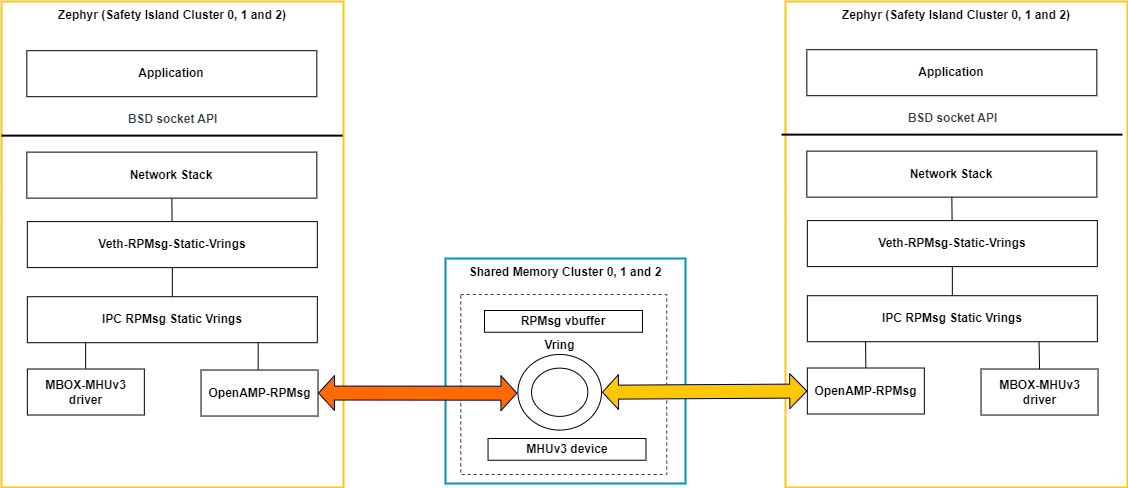
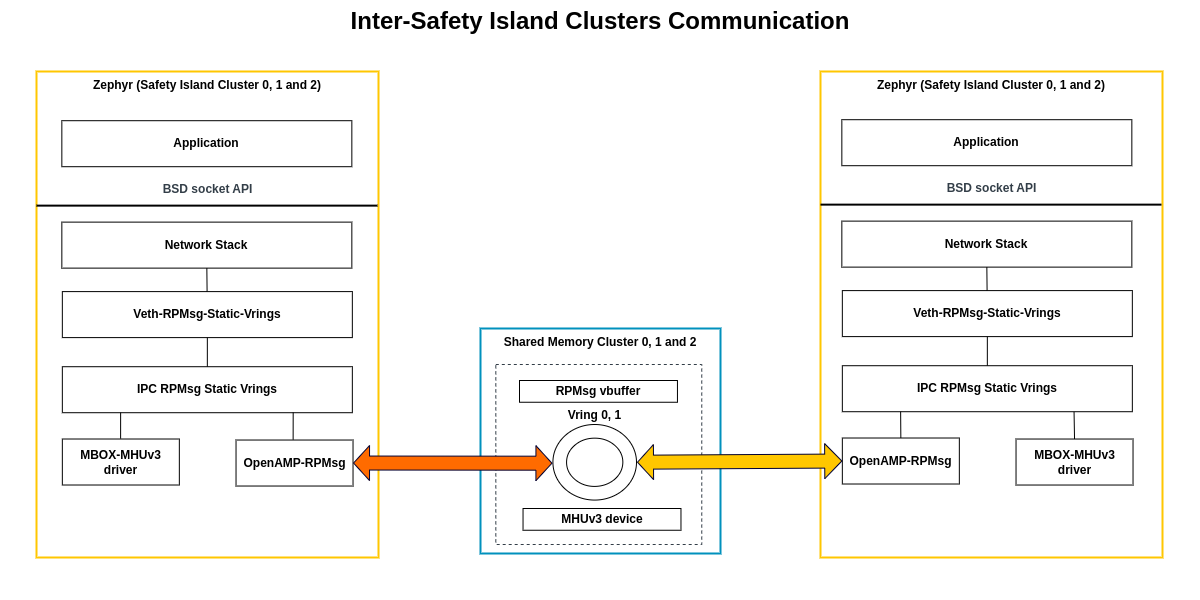
doc: Update HIPC documentation to standardize conventions
This commit updates corrections in the architecture diagrams
and standardizes the conventions.

Changed region(s): [[0.0, 0.0, 1.0, 1.0], [0.0, 0.9836, 0.3103, 1.0]]

diff --git a/documentation/design/hipc.rst b/documentation/design/hipc.rst
@@ -7,7 +7,7 @@
 .. _design_hipc:
 
 ##################################################
-Heterogeneous Inter-processor Communication (HIPC)
+Heterogeneous Inter-Processor Communication (HIPC)
 ##################################################
 
 ************
@@ -16,7 +16,7 @@ Introduction
 
 The Kronos FVP contains Armv9-A (Primary Compute) and Armv8-R64 (Safety Island)
 heterogeneous processing elements which share data via the Message Handling
-Unit (MHUv3) and shared Static Random-Access Memory (SRAM). The MHUv3 is a
+Unit (MHUv3) and shared Static Random Access Memory (SRAM). The MHUv3 is a
 mailbox controller used for signal transmission and the shared memory is used
 for data exchange. Safety Island clusters also share data via the MHUv3 and
 shared SRAM.
@@ -41,64 +41,64 @@ RPMsg Protocol
 ==============
 
 RPMsg (Remote Processor Messaging) is a messaging protocol enabling
-heterogeneous communication, which can be used by Linux as well as real-time
-OSes.
+heterogeneous communication, which can be used by Linux as well as Real Time
+Operating Systems.
 
-In Linux, the RPMsg framework is implemented on top of the virtio-rpmsg
-bus and remoteproc framework. The virtio-rpmsg implementation is generic and
-based on virtio vrings to transmit/receive messages to/from the remote CPU over
+In Linux, the RPMsg framework is implemented on top of the Virtio-RPMsg
+bus and Remoteproc framework. The Virtio-RPMsg implementation is generic and
+based on Virtio Vring to transmit/receive messages to/from the remote CPU over
 shared memory.
 
 On the Safety Island side, Zephyr has imported OpenAMP as an external module.
-The OpenAMP library implements the RPMsg backend based on virtio, which is
-compatible with the upstream Linux remoteproc and RPMsg components. This library
+The OpenAMP library implements the RPMsg backend based on Virtio, which is
+compatible with the upstream Linux Remoteproc and RPMsg components. This library
 can be used with the Zephyr kernel or Zephyr applications to behave as an RPMsg
 backend service for communication with the Primary Compute.
 
 Virtual Network Device over RPMsg
 =================================
 
-RPMsg provides a set of user APIs for RPMsg endpoints to transmit/receive
-messages to/from the endpoints. These APIs can be used for some basic
-inter-processor communication. However, many existing user applications are not
-implemented based on RPMsg APIs. More often, they use BSD sockets for IPC. This
-is because BSD sockets can shield the difference between inter-processor
-communication and intra-processor communication, which makes applications
-generic and portable. In order to meet the needs of such applications, an RPMsg
-based virtual network device is added to the Reference Stack.
+RPMsg offers a range of user APIs for RPMsg endpoints to send and receive messages
+to and from these endpoints. These APIs are suitable for simple inter-processor
+communication. However, many current user applications are not built on RPMsg APIs.
+Instead, they use BSD sockets for IPC. The reason for this is that BSD sockets can
+abstract the difference between inter-processor communication and intra-processor
+communication. This makes it possible for applications to be more versatile and
+portable. In response to the needs of such applications, a virtual network device
+based on RPMsg has been added to the Reference Stack.
 
-On the Safety Island side, it creates a network device over an RPMsg endpoint
-with a specific service name. The RPMsg endpoint announces its existence by
-sending a name service message to the Primary Compute. This message is then
-handled by the RPMsg bus to create an RPMsg endpoint and a corresponding
-network device. After that, the network communication is established based on
-this pair of virtual network devices.
+On the Safety Island side, a network device is created over an RPMsg endpoint
+with a specific service name. The RPMsg endpoint sends a Name Service message
+to the Primary Compute to announce its existence. The message is then processed
+by the RPMsg bus, which creates an RPMsg endpoint and a corresponding network
+device. Once this is done, the virtual network devices establish network
+communication.
 
-On the Primary Compute side, the RPMsg frame needs to be copied to the skb
-buffer used by the network stack. When the traffic exceeds the performance
-limitation, the skb buffer may be dropped during processing for congestion
-control or by the protocol layers. At this time, network statistics will
-increase the dropped packet counter.
+On the Primary Compute side RPMsg frame must be copied to the Socket Buffer (skb)
+utilized by the Network Stack. However, if the traffic exceeds the performance
+limit, the Socket Buffer may get dropped during processing for congestion control
+or by the protocol layers. In such cases, the network statistics will increase
+the dropped packet counter.
 
-As shown in the above diagram each Safety Island cluster has its own shared
-memory and MHUv3 device to communicate with the Primary Compute. The size of
-the shared memory is 16MB and Safety Island clusters 0, 1 and 2 have access to
-it. Each shared memory instance has a resource table (4KB), two vrings
-(1MB each) and message buffer (3MB) that are used to transmit/receive
-information between the Primary Compute and the Safety Island Cluster. On the
-Primary Compute, the Safety Island remoteproc driver and RPMsg-based virtual
-interface driver are added to communicate with the Safety Island.
+In the above diagram, each Safety Island cluster has its own Shared Memory and
+MHUv3 device to communicate with the Primary Compute. The size of the Shared
+Memory is 16MB, and Safety Island Clusters 0, 1, and 2 have access to it. The
+Shared Memory instance has a Resource table (4KB), Vring 0, 1 (1MB each), and
+an RPMsg vbuffer (3MB) used to send and receive information between the Primary
+Compute and the Safety Island cluster.
 
-RPMsg-net driver on the Primary Compute and Veth-RPMsg on the Safety Island
-clusters implement the virtual ethernet device that is base for communication
-between Primary Compute and Safety Island clusters.
+On the Primary Compute, the Safety Island Remoteproc driver and RPMsg-based virtual
+interface driver are added to communicate with the Safety Island. The RPMsg-net
+driver on the Primary Compute and Veth-RPMsg on the Safety Island clusters implement
+the virtual ethernet device that is the basis for communication between the Primary
+Compute and Safety Island clusters.
 
 Safety Island Remoteproc Driver
 ===============================
-The remoteproc framework allows different platforms/architectures to control
+The Remoteproc framework allows different platforms/architectures to control
 (power on/off, load firmware) remote processors while abstracting the hardware
-differences, so the entire driver doesn't need to be duplicated. The remoteproc
-platform driver is added to the RD-Kronos stack to provide support for
+differences, so the entire driver doesn't need to be duplicated. The Remoteproc
+platform driver is added to the RD-Kronos Stack to provide support for
 communication between Primary Compute and Safety Island clusters.
 
 In the Kronos FVP, Linux running in the Primary Compute, regards the Safety
@@ -110,15 +110,15 @@ These clusters cannot be booted by the Primary Compute processor because they
 need to monitor the other hardware, including the Primary Compute. Therefore,
 the initial status of the clusters in the driver is ``RPROC_DETACHED``, which
 means the cluster has been booted independently from the Primary Compute
-processor. This driver implements the notification handler using an MHUv3-based
+processor. This driver implements the notification handler using an MHUv3 based
 mailbox, which notifies other cores when new messages are sent to the virtual
 queue.
 
-The memory regions of the resource table, vrings and message buffers are
-configured in the device tree bindings for each cluster. The driver parses the
-device tree node for each cluster and adds each cluster to the remoteproc
-framework. Each cluster has its own resource table, vrings and message buffers
-that will be used as a base for communication.
+The Resource table, Vring 0, 1, and RPMsg vbuffer memory regions are set up in the
+device tree bindings for each cluster. The driver reads the device tree node for
+each cluster and adds it to the Remoteproc framework. Each cluster has its own
+Resource table, Vring 0, 1, and RPMsg vbuffer, which serve as the foundation for
+communication.
 
 Virtualization Architecture
 ===========================
@@ -126,7 +126,7 @@ Virtualization Architecture
 In the Virtualization Architecture of the Reference Stack, virtual network
 interfaces based on Xen drivers created in the control domain (Dom0) are
 exposed to the domUs. These virtual network interfaces are added to an Open
-vSwitch virtual switch along with an RPMsg virtual interface to communicate
+vSwitch virtual switch along with an RPMsg Virtual Interface to communicate
 with the Safety Island.
 
 Dom0 has a communication channel with the Safety Island which is the same as
@@ -151,8 +151,8 @@ Virtual Network Device over IPC Static Vrings
 
 Zephyr `IPC Service`_  based virtual network devices are added to each cluster
 to provide communication between clusters via BSD sockets. The backend used for
-the IPC service is RPMSg static vrings. The IPC RPMsg Static Vrings backend is
-implemented on top of virtio based RPMsg communication.
+the IPC service is RPMSg Static Vrings. The IPC RPMsg Static Vrings backend is
+implemented on top of Virtio based RPMsg communication.
 
 |
 
@@ -251,7 +251,7 @@ Baremetal Architecture
 ======================
 
 This diagram shows the network topology for the Baremetal Architecture. ethsi{N}
-is the name of the RPMsg-based virtual interfaces that are connected to Safety
+is the name of the RPMsg-based Virtual Interfaces that are connected to Safety
 Island Cluster{N}, where N is the cluster number. For example, the ethsi0
 interfaces are connected to Safety Island Cluster 0. Similarly, ethpc is the
 name of the interfaces that are connected to the Primary Compute.
@@ -262,7 +262,7 @@ the brsi{N} VLAN tagged switches that are configured to carry VLAN tagged
 traffic from/to the ethsi{N} interface with the Safety Island.
 
 User space applications on the Primary Compute can communicate with Safety
-Island cluster N via brsi{N}.
+Island Cluster N via brsi{N}.
 
 |
 
@@ -277,7 +277,7 @@ Virtualization Architecture
 As shown in the diagram below the virtual network interfaces for the Xen guests
 are based on Xen drivers. domu1.ethsi{N} and domu2.ethsi{N} are backend virtual
 network interfaces that are exposed to DomU1 and DomU2 guests. ethsi{N} in the
-Primary Compute is the RPMsg-based virtual interface that is connected to
+Primary Compute is the RPMsg-based Virtual Interface that is connected to
 Safety Island Cluster{N} to provide communication between Primary Compute and
 Safety Island. ethsi{N}(Primary Compute) and domu1.ethsi{N} are added to
 Open vSwitch (brsi{N}) to have a connection between Dom0, DomU1 and Safety
@@ -294,10 +294,10 @@ Island Cluster N.
 Device Tree
 ***********
 
-In Linux, a remoteproc binding is needed for Safety Island remote clusters.
+In Linux, a Remoteproc binding is needed for Safety Island clusters.
 It includes MHUv3 transmit/receive channels for signaling and several memory
-regions for data exchange. Each Safety Island cluster has it own remoteproc
-binding that includes MHUv3 and shared memory.
+regions for data exchange. Each Safety Island cluster has it own Remoteproc
+binding that includes MHUv3 and Shared Memory.
 
 The Linux device tree with the appropriate nodes for HIPC is located at
 :meta-arm-repo:`meta-arm-bsp/recipes-bsp/trusted-firmware-a/files/fvp-rd-kronos/rdkronos.dts`.
